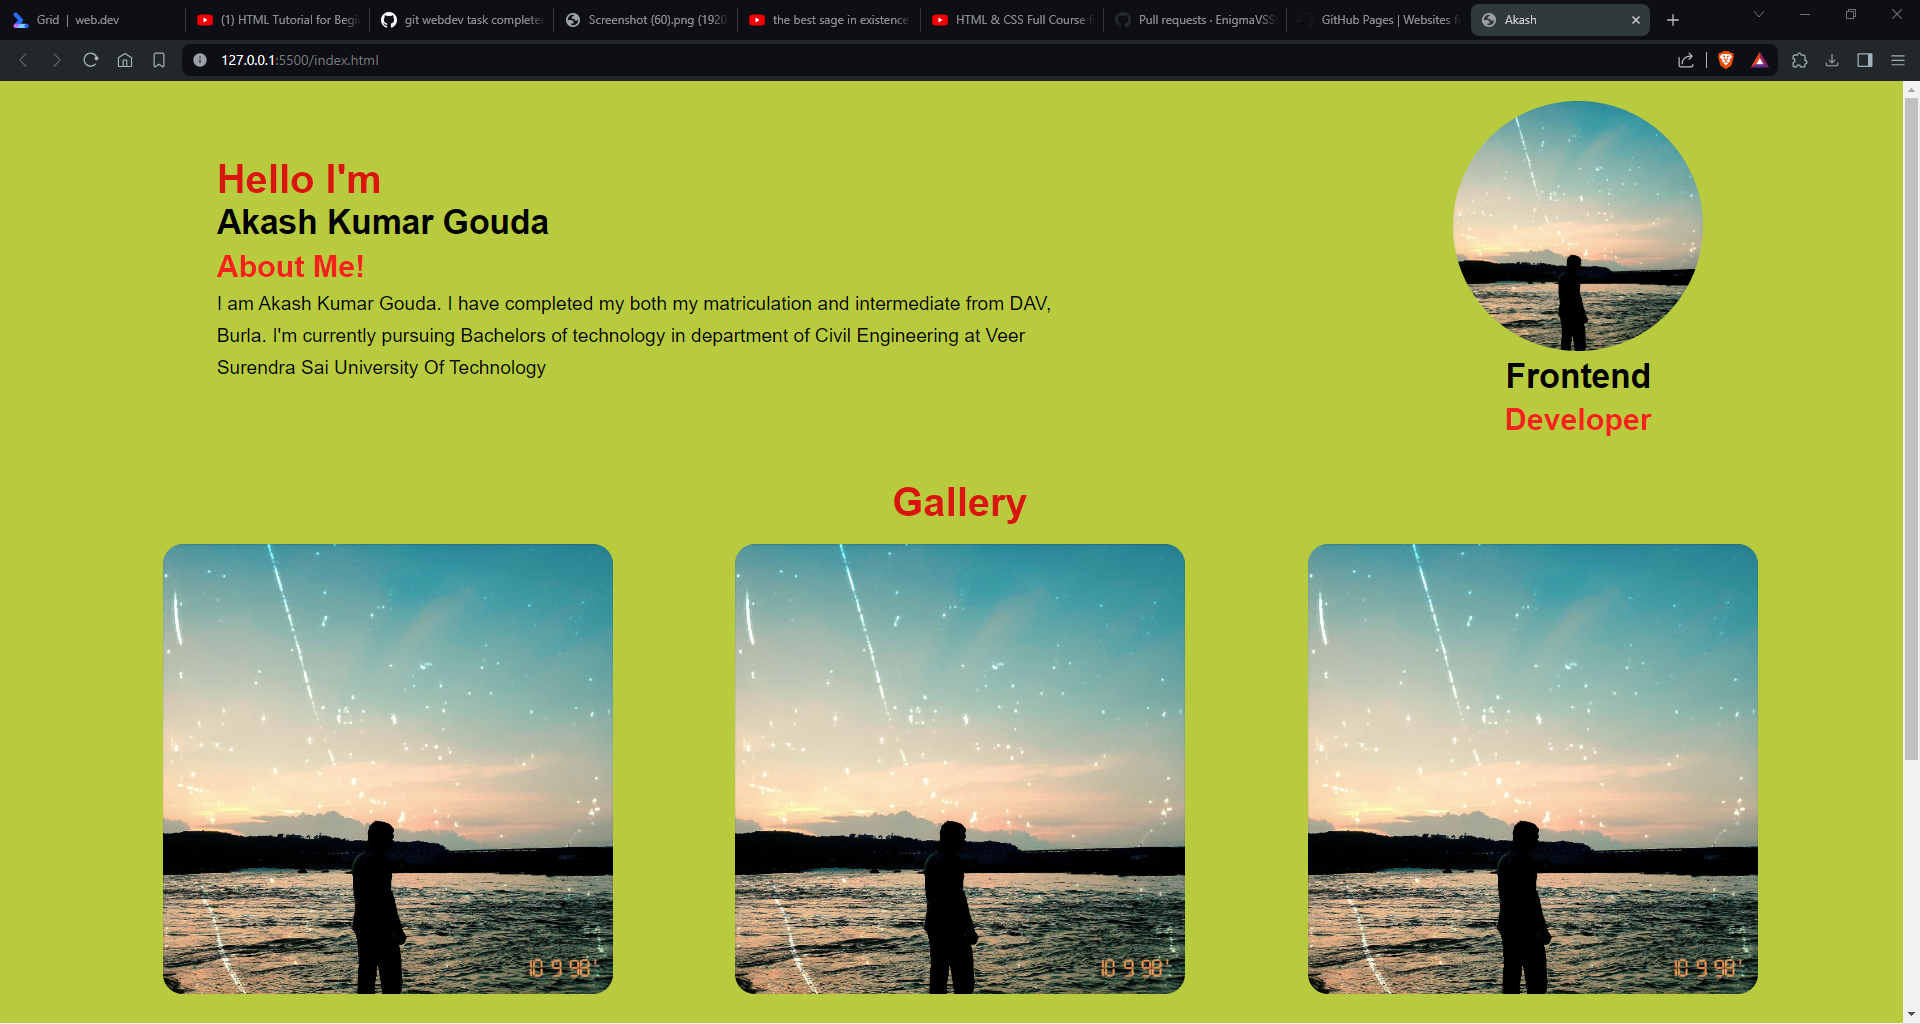
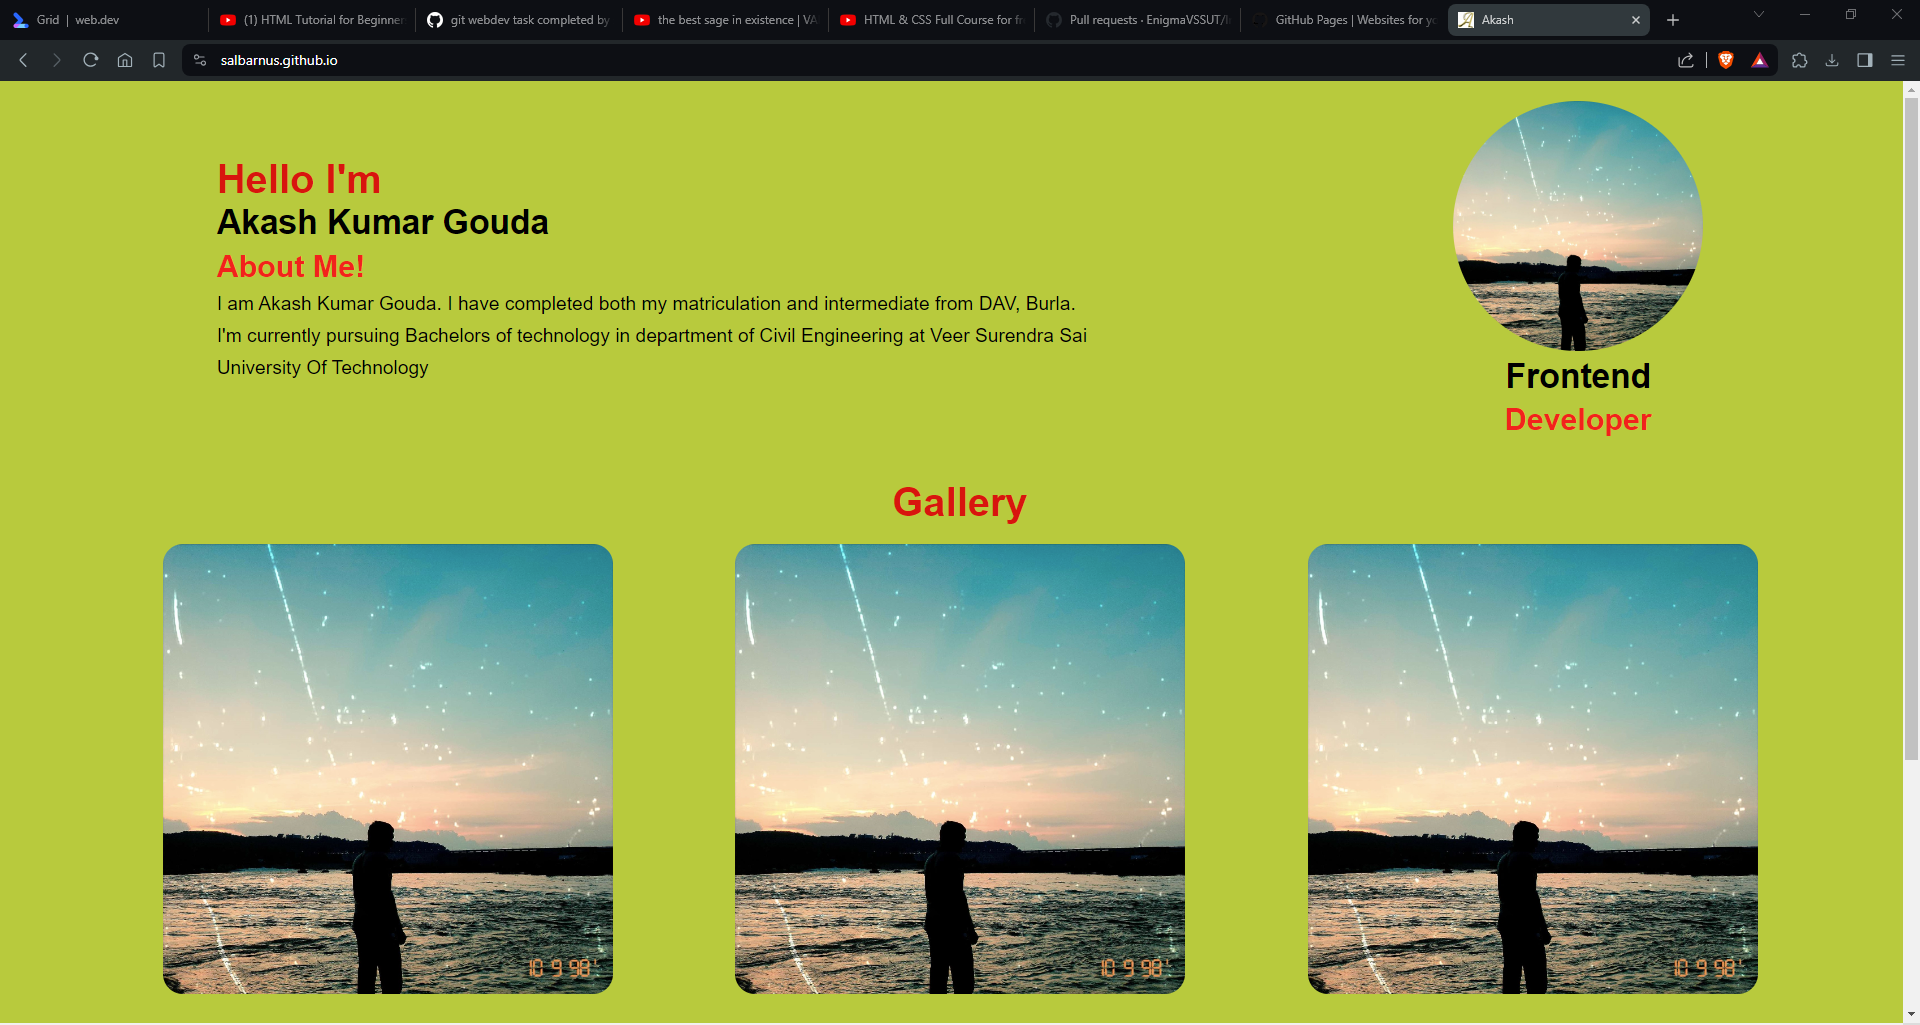
Content updated

diff --git a/Web Development/Task/Task Submission/Akash_Kumar_Gouda/index.html b/Web Development/Task/Task Submission/Akash_Kumar_Gouda/index.html
@@ -17,7 +17,7 @@
                 <h2>Hello I'm<h2>
                         <h3>Akash Kumar Gouda</h3>
                         <h4>About Me!</h4>
-                        <p>I am Akash Kumar Gouda. I have completed my both my matriculation and intermediate from DAV, Burla. I'm currently pursuing Bachelors of technology
+                        <p>I am Akash Kumar Gouda. I have completed both my matriculation and intermediate from DAV, Burla. I'm currently pursuing Bachelors of technology
                             in department of Civil Engineering at Veer Surendra Sai University Of Technology </p>
             </div>
             <div class="right flex">
